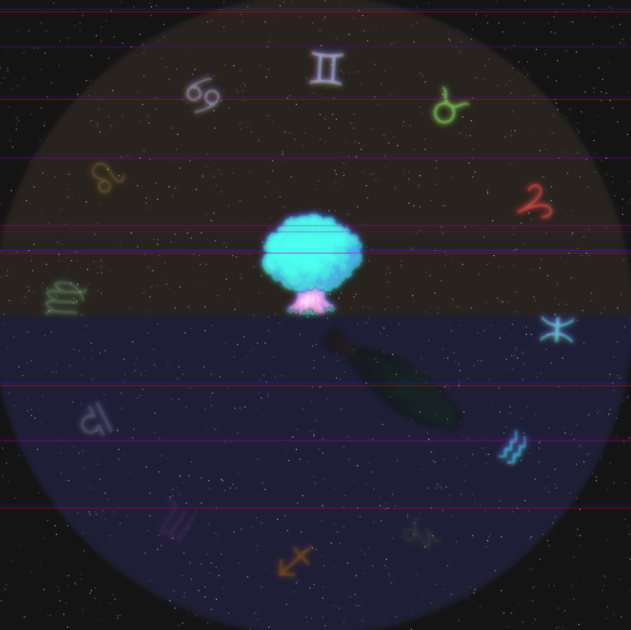
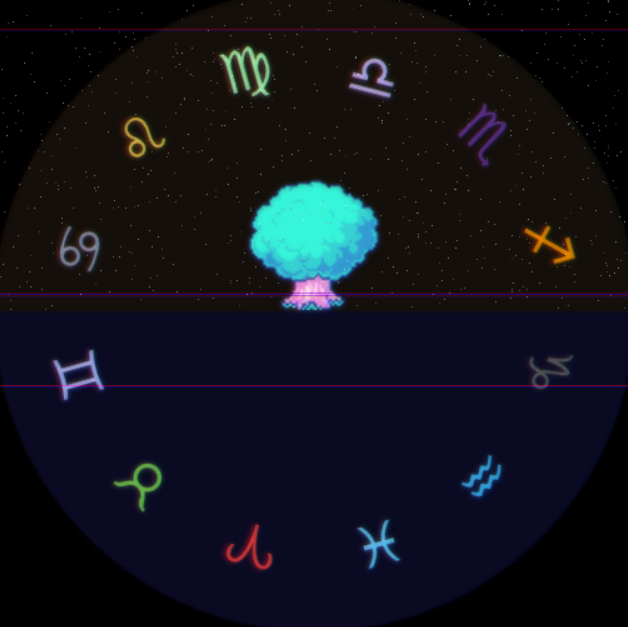
Sigil spinning like a clock

diff --git a/src/thresholdfloor/floor_sigil.py b/src/thresholdfloor/floor_sigil.py
@@ -701,6 +701,8 @@ def animate_sigil(canvas, base_image_path, duration=4, floor=None, frame_count=2
         for i in range(frame_count):
             observed_at = start + (tick * i)
             frame = _render_clock_sigil_frame(floor, observed_at, size=512)
+            #frames.append(frame.copy())
+
             frames.append(glow_layer(frame.copy(), passes=1))
     else:
         # Build animation frames
@@ -788,6 +790,7 @@ def add_static_overlay(img):
     """Overlay white noise dots onto an image."""
     draw = ImageDraw.Draw(img)
     w, h = img.size
+    h = h / 2 # Half height (they look like stars..)
     for _ in range(random.randint(500, 1000)):
         x = random.randint(0, w - 1)
         y = random.randint(0, h - 1)